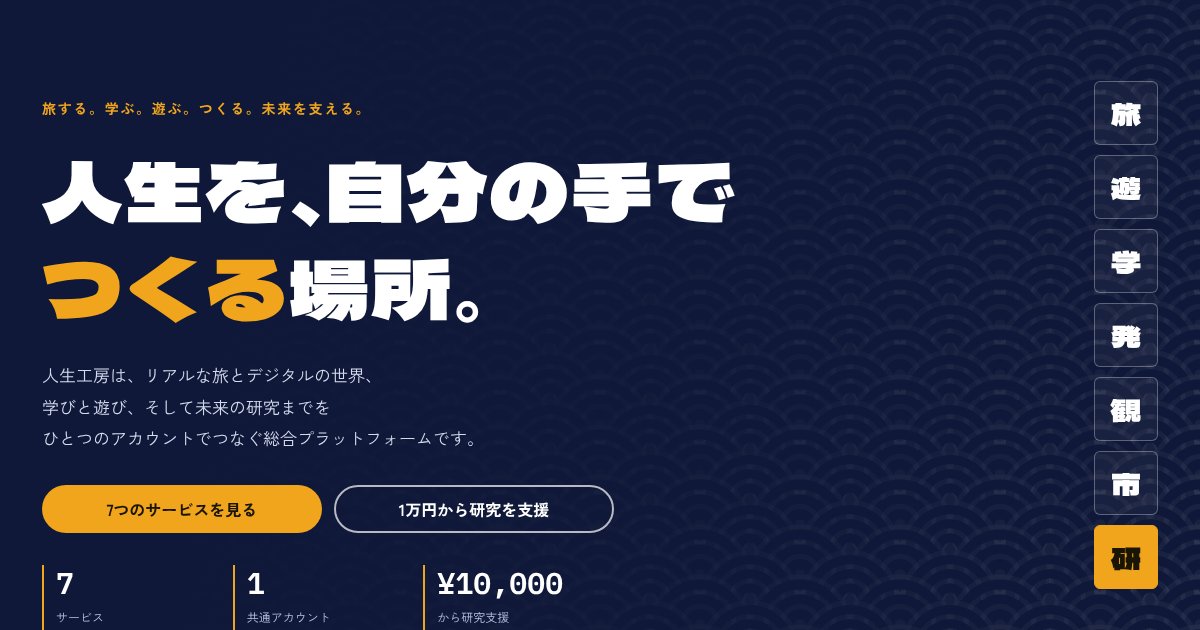
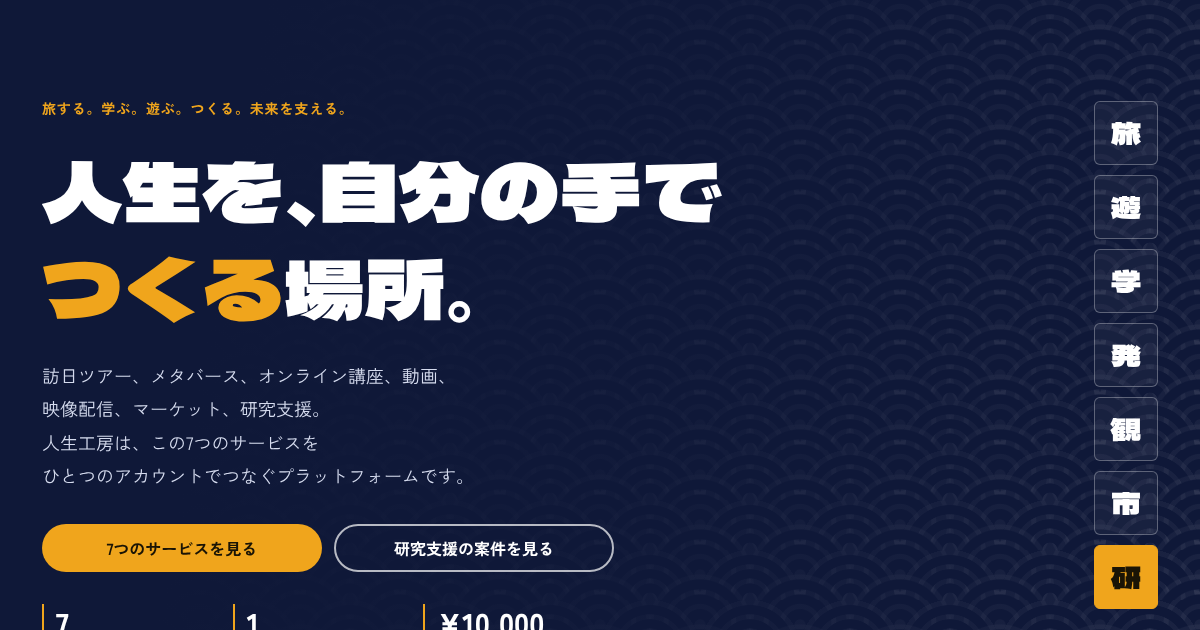
デザインガイドに沿って文字・余白・写真・コピー・CTAを調整
- 日本語は文節で改行し、見出しの不自然な改行を修正
- 見出しを大きくしてジャンプ率を上げ、本文を16pxに
- かなの詰め（palt）を有効化し、日本語の字間を自然に
- 数字を本文書体の極太にして、日本語と高さをそろえる
- セクション見出しを左ぞろえに統一
- カード内の余白を近接の原則で調整
- サムネイルの光の向きと色味を統一
- 抽象的な紹介文を具体的な内容に変更（日英）
- ボタンを押した後の動きが分かる文言に変更（日英）
- 押せる部品を44px以上に拡大

Claude-Session: https://claude.ai/code/session_01LBACWGkgaPbj2pynbsXujo

diff --git a/index.html b/index.html
@@ -50,7 +50,7 @@
           <li><a href="#market"><i aria-hidden="true">市</i>マーケット</a></li>
           <li><a href="#fund"><i aria-hidden="true">研</i>研究支援</a></li>
         </ul>
-        <a class="btn btn--accent btn--sm" href="#join">無料で事前登録</a>
+        <a class="btn btn--accent btn--sm" href="#join">事前登録フォームへ</a>
       </nav>
     </div>
   </header>
@@ -63,11 +63,11 @@
         <p class="hero__eyebrow">旅する。学ぶ。遊ぶ。つくる。<br class="sp">未来を支える。</p>
         <h1 class="hero__title">人生を、<br class="sp">自分の手で<br><em>つくる</em>場所。</h1>
         <p class="hero__lead">
-          人生工房は、リアルな旅とデジタルの世界、<br class="pc">学びと遊び、そして未来の研究までを<br class="pc">ひとつのアカウントでつなぐ総合プラットフォームです。
+          訪日ツアー、メタバース、オンライン講座、動画、<br class="pc">映像配信、マーケット、研究支援。<br class="pc">人生工房は、この7つのサービスを<br class="pc">ひとつのアカウントでつなぐプラットフォームです。
         </p>
         <div class="hero__cta">
           <a class="btn btn--accent" href="#services">7つのサービスを見る</a>
-          <a class="btn btn--ghost" href="#fund">1万円から研究を支援</a>
+          <a class="btn btn--ghost" href="#fund">研究支援の案件を見る</a>
         </div>
         <ul class="hero__kanji" aria-hidden="true"><li>旅</li><li>遊</li><li>学</li><li>発</li><li>観</li><li>市</li><li>研</li></ul>
         <ul class="hero__stats" aria-label="構想中の規模（目標値）">
@@ -90,11 +90,11 @@
         </header>
         <ul class="svc-grid">
           <li><a class="svc" href="#tour" style="--c:var(--c-tour)"><span class="svc__mark" aria-hidden="true">旅</span><h3>インバウンドツアー</h3><p>職人・地域の暮らしに触れる、訪日客向けの体験型ツアー。</p></a></li>
-          <li><a class="svc" href="#metaverse" style="--c:var(--c-meta)"><span class="svc__mark" aria-hidden="true">遊</span><h3>メタバース工房</h3><p>アバターで集い、遊び、つくる。仮想空間のゲームと交流の場。</p></a></li>
-          <li><a class="svc" href="#academy" style="--c:var(--c-academy)"><span class="svc__mark" aria-hidden="true">学</span><h3>アカデミー</h3><p>オンライン講座とライブワークショップで、技と知恵を学ぶ。</p></a></li>
-          <li><a class="svc" href="#channel" style="--c:var(--c-channel)"><span class="svc__mark" aria-hidden="true">発</span><h3>工房チャンネル</h3><p>誰でも動画を投稿・発信できる、クリエイターの動画広場。</p></a></li>
-          <li><a class="svc" href="#theater" style="--c:var(--c-theater)"><span class="svc__mark" aria-hidden="true">観</span><h3>工房シアター</h3><p>オリジナル作品を見放題で楽しめる、定額制の映像配信。</p></a></li>
-          <li><a class="svc" href="#market" style="--c:var(--c-market)"><span class="svc__mark" aria-hidden="true">市</span><h3>工房マーケット</h3><p>個人どうしで売り買いできる、オークション＆フリマ。</p></a></li>
+          <li><a class="svc" href="#metaverse" style="--c:var(--c-meta)"><span class="svc__mark" aria-hidden="true">遊</span><h3>メタバース工房</h3><p>アバターで工房街を歩き、ミニゲームや交流会に参加できる仮想空間。</p></a></li>
+          <li><a class="svc" href="#academy" style="--c:var(--c-academy)"><span class="svc__mark" aria-hidden="true">学</span><h3>アカデミー</h3><p>金継ぎ・木工・日本酒など、職人や研究者から直接学べるオンライン講座。</p></a></li>
+          <li><a class="svc" href="#channel" style="--c:var(--c-channel)"><span class="svc__mark" aria-hidden="true">発</span><h3>工房チャンネル</h3><p>職人の手仕事や研究の解説を、誰でも投稿・発信できる動画サービス。</p></a></li>
+          <li><a class="svc" href="#theater" style="--c:var(--c-theater)"><span class="svc__mark" aria-hidden="true">観</span><h3>工房シアター</h3><p>ドキュメンタリー・ドラマ・アニメのオリジナル作品が見放題の定額配信。</p></a></li>
+          <li><a class="svc" href="#market" style="--c:var(--c-market)"><span class="svc__mark" aria-hidden="true">市</span><h3>工房マーケット</h3><p>作品や古道具を個人どうしで売り買いできる、オークションと即決のマーケット。</p></a></li>
           <li class="svc-grid__wide"><a class="svc svc--feature" href="#fund" style="--c:var(--c-fund)"><span class="svc__mark" aria-hidden="true">研</span><h3>未来研究ファンド</h3><p>ペロブスカイト太陽電池やフュージョンエネルギーなどの研究を、<br class="pc">1口1万円程度から個人が支援できる仕組み。</p></a></li>
         </ul>
       </div>
@@ -105,7 +105,7 @@
       <div class="container">
         <header class="section__head section__head--left">
           <p class="section__en"><span class="badge" aria-hidden="true">旅</span>INBOUND TOUR</p>
-          <h2 class="section__title">日本の「つくる」に会いにいく旅</h2>
+          <h2 class="section__title">日本の「つくる」に<br class="sp">会いにいく旅</h2>
           <p class="section__lead">
             観光地をめぐるだけではなく、職人の工房や地域の暮らしに入り込む、<br class="pc">体験型のツアーを訪日客向けに企画します。英語・中国語などの多言語ガイド付きを想定しています。
           </p>
@@ -125,7 +125,7 @@
       <div class="container">
         <header class="section__head section__head--left">
           <p class="section__en"><span class="badge" aria-hidden="true">遊</span>METAVERSE</p>
-          <h2 class="section__title">メタバース工房で、遊びながらつながる</h2>
+          <h2 class="section__title">メタバース工房で、<br class="sp">遊びながらつながる</h2>
           <p class="section__lead">
             仮想空間の「工房街」をアバターで歩き、ゲームやイベントに参加できます。<br class="pc">下のミニデモでは、矢印キー、または画面をクリック・タップした場所へアバターが歩きます。各エリアに入ってみてください。
           </p>
@@ -180,7 +180,7 @@
       <div class="container">
         <header class="section__head section__head--left">
           <p class="section__en"><span class="badge" aria-hidden="true">発</span>CHANNEL</p>
-          <h2 class="section__title">工房チャンネル ― 誰もが発信者に</h2>
+          <h2 class="section__title">工房チャンネル ―<br class="sp"> 誰もが発信者に</h2>
           <p class="section__lead">
             職人の手仕事、旅の記録、研究者の解説など、だれでも動画を投稿できます。<br class="pc">広告収益やファンからの応援（投げ銭）で、発信者に収益が届く仕組みを想定しています。
           </p>
@@ -200,7 +200,7 @@
       <div class="container">
         <header class="section__head section__head--left">
           <p class="section__en"><span class="badge" aria-hidden="true">観</span>THEATER</p>
-          <h2 class="section__title">工房シアター ― 見放題のオリジナル作品</h2>
+          <h2 class="section__title">工房シアター ―<br class="sp"> 見放題のオリジナル作品</h2>
           <p class="section__lead">
             ドキュメンタリー、ドラマ、アニメなどのオリジナル作品を、<br class="pc">月額定額で見放題にする配信サービスです。
           </p>
@@ -212,7 +212,7 @@
             <p>次世代の太陽電池に人生をかける研究者たちを追った全6話。<br class="pc">研究ファンドの支援先プロジェクトの舞台裏に迫ります。</p>
             <div class="theater__btns">
               <button class="btn btn--light" data-toast="デモのため再生できません">▶ 再生</button>
-              <button class="btn btn--glass" data-toast="マイリストに追加しました（デモ）">＋ マイリスト</button>
+              <button class="btn btn--glass" data-toast="マイリストに追加しました（デモ）">＋ マイリストに追加</button>
             </div>
           </div>
         </div>
@@ -225,7 +225,7 @@
       <div class="container">
         <header class="section__head section__head--left">
           <p class="section__en"><span class="badge" aria-hidden="true">市</span>MARKET</p>
-          <h2 class="section__title">工房マーケット ― 個人どうしで売り買い</h2>
+          <h2 class="section__title">工房マーケット ―<br class="sp"> 個人どうしで売り買い</h2>
           <p class="section__lead">
             作品、古道具、ツアーで出会った品などを、個人が出品できるマーケットです。<br class="pc">「即決購入」と「オークション入札」の2つの買い方を用意します。
           </p>
@@ -285,7 +285,7 @@
             <p class="sim__total">支援額<strong id="simTotal">¥10,000</strong></p>
             <p class="sim__share">目標金額に占める割合 <b id="simShare">0.03%</b></p>
             <p class="sim__share">達成までの残り <b id="simRemain">¥0</b></p>
-            <button class="btn btn--primary btn--block" data-toast="デモのため申込はできません">この内容で支援する（デモ）</button>
+            <button class="btn btn--primary btn--block" data-toast="デモのため申込はできません">申込内容を確認する（デモ）</button>
           </div>
         </div>
 
@@ -365,7 +365,7 @@
         <form class="join__form" id="joinForm" novalidate>
           <label class="visually-hidden" for="joinEmail">メールアドレス</label>
           <input type="email" id="joinEmail" placeholder="メールアドレス" required autocomplete="email">
-          <button class="btn btn--primary" type="submit">事前登録する</button>
+          <button class="btn btn--primary" type="submit">登録してお知らせを受け取る</button>
         </form>
         <p class="join__msg" id="joinMsg" aria-live="polite"></p>
       </div>

diff --git a/assets/js/main.js b/assets/js/main.js
@@ -42,7 +42,7 @@
     demoBook: () => tr("予約はデモのため利用できません", "Booking is not available in this demo"),
     demoEnroll: () => tr("受講申込はデモのため利用できません", "Enrollment is not available in this demo"),
     demoPlay: () => tr("デモのため再生できません", "Playback is not available in this demo"),
-    demoBuy: () => tr("購入はデモのため利用できません", "Purchasing is not available in this demo"),
+    demoBuy: () => tr("カートはデモのため利用できません", "The cart is not available in this demo"),
   };
 
   /* ---------- ナビゲーション（スマホ用メニュー） ---------- */
@@ -93,7 +93,7 @@
             <div class="lang" aria-label="${tr("対応言語", "Guide languages")}">${t.lang.map((l) => `<span>${esc(l)}</span>`).join("")}</div>
             <div class="card__foot">
               <p class="price">${yen(t.price)}<small>${tr("／人〜", " / person")}</small></p>
-              <button class="btn btn--primary btn--sm" data-toast="${T.demoBook()}">${tr("予約する", "Book now")}</button>
+              <button class="btn btn--primary btn--sm" data-toast="${T.demoBook()}">${tr("空き日程を見る", "Check availability")}</button>
             </div>
           </div>
         </article>`; }).join("");
@@ -148,7 +148,7 @@
             <p class="stars" aria-label="${tr("評価", "Rating")} ${c.rate}">★ ${c.rate.toFixed(1)}</p>
             <div class="card__foot">
               <p class="price">${c.price === 0 ? tr("無料", "Free") : yen(c.price)}</p>
-              <button class="btn btn--primary btn--sm" data-toast="${T.demoEnroll()}">${c.type === "live" ? tr("参加する", "Join") : tr("受講する", "Enroll")}</button>
+              <button class="btn btn--primary btn--sm" data-toast="${T.demoEnroll()}">${c.type === "live" ? tr("参加を予約する", "Reserve a seat") : tr("講座の詳細を見る", "View course details")}</button>
             </div>
           </div>
         </article>`; }).join("");
@@ -300,7 +300,7 @@
           <div class="card__foot">
             ${i.kind === "auction"
               ? `<button class="btn btn--primary btn--sm btn--block" data-bid="${i.id}">${tr(`＋${yen(bidStep(i.price))} で入札（デモ）`, `Bid +${yen(bidStep(i.price))} (demo)`)}</button>`
-              : `<button class="btn btn--primary btn--sm btn--block" data-toast="${T.demoBuy()}">${tr("購入する", "Buy now")}</button>`}
+              : `<button class="btn btn--primary btn--sm btn--block" data-toast="${T.demoBuy()}">${tr("カートに入れる", "Add to cart")}</button>`}
           </div>
         </div>
       </article>`; }).join("");
@@ -375,7 +375,7 @@
           </div>
           <p class="card__meta"><span>${tr("集まった金額", "Raised")} ${yen(p.raised)}</span><span>${tr("目標", "Goal")} ${yen(p.goal)}</span></p>
           <p class="fund__risk">${tr("リスク区分", "Risk level")} <b data-r="${riskLabel[p.risk][0]}">${tr(...riskLabel[p.risk])}</b></p>
-          <a class="btn btn--primary btn--sm" href="#simProject" data-pick="${p.id}">${tr(`1口 ${yen(UNIT)} から支援`, `Back from ${yen(UNIT)} per unit`)}</a>
+          <a class="btn btn--primary btn--sm" href="#simProject" data-pick="${p.id}">${tr("この案件で支援額を試算する", "Estimate my backing")}</a>
         </div>
       </article>`;
     }).join("");
@@ -575,13 +575,13 @@
     ['#nav a[href="#theater"]', '<i aria-hidden="true">観</i>Theater'],
     ['#nav a[href="#market"]', '<i aria-hidden="true">市</i>Market'],
     ['#nav a[href="#fund"]', '<i aria-hidden="true">研</i>Research'],
-    ["#nav .btn", "Sign up free"],
+    ["#nav .btn", "Go to sign-up"],
 
     [".hero__eyebrow", "Travel. Learn. Play. Make.<br class=\"sp\"> Back the future."],
     [".hero__title", "A place to <em>craft</em><br>your own life."],
-    [".hero__lead", "Jinsei Koubo means “Life Workshop.” We connect real-world travel and digital spaces, learning and play, and even frontier research, all through a single account."],
+    [".hero__lead", "Tours of Japan, a metaverse, online courses, videos, streaming, a marketplace and research funding. Jinsei Koubo, or “Life Workshop,” connects these seven services through one account."],
     ['.hero__cta a[href="#services"]', "Explore 7 services"],
-    ['.hero__cta a[href="#fund"]', "Back research from ¥10,000"],
+    ['.hero__cta a[href="#fund"]', "See research projects"],
     [".hero__stats", "Planned scale (targets)", "aria-label"],
     [".hero__stats li:nth-child(1) span", "Services"],
     [".hero__stats li:nth-child(2) span", "Shared account"],
@@ -592,15 +592,15 @@
     ['.svc[href="#tour"] h3', "Inbound Tours"],
     ['.svc[href="#tour"] p', "Hands-on tours for visitors to Japan, inside artisan workshops and local life."],
     ['.svc[href="#metaverse"] h3', "Metaverse Workshop"],
-    ['.svc[href="#metaverse"] p', "Gather, play and create as an avatar in a shared virtual world."],
+    ['.svc[href="#metaverse"] p', "A virtual workshop town where your avatar joins mini-games and meetups."],
     ['.svc[href="#academy"] h3', "Academy"],
-    ['.svc[href="#academy"] p', "Learn skills and know-how through online courses and live workshops."],
+    ['.svc[href="#academy"] p', "Online courses in kintsugi, woodworking, sake and more, taught directly by artisans and researchers."],
     ['.svc[href="#channel"] h3', "Koubo Channel"],
-    ['.svc[href="#channel"] p', "A video space where anyone can post and share their work."],
+    ['.svc[href="#channel"] p', "A video service where anyone can post artisan craft, research explainers and more."],
     ['.svc[href="#theater"] h3', "Koubo Theater"],
-    ['.svc[href="#theater"] p', "A subscription service for unlimited original films and series."],
+    ['.svc[href="#theater"] p', "Original documentaries, dramas and anime, unlimited for one monthly fee."],
     ['.svc[href="#market"] h3', "Koubo Market"],
-    ['.svc[href="#market"] p', "Buy and sell person to person, by auction or fixed price."],
+    ['.svc[href="#market"] p', "Buy and sell crafts and vintage finds person to person, by auction or Buy It Now."],
     ['.svc[href="#fund"] h3', "Future Research Fund"],
     ['.svc[href="#fund"] p', "Back research such as perovskite solar cells and fusion energy,<br class=\"pc\"> starting from around ¥10,000 per unit."],
 
@@ -647,7 +647,7 @@
     [".theater__hero p:not(.theater__tag)", "A six-part series following researchers who have devoted their lives to next-generation solar cells, and the projects backed by our research fund."],
     [".theater__btns .btn--light", "▶ Play"],
     [".theater__btns .btn--light", "Playback is not available in this demo", "data-toast"],
-    [".theater__btns .btn--glass", "+ My List"],
+    [".theater__btns .btn--glass", "+ Add to My List"],
     [".theater__btns .btn--glass", "Added to My List (demo)", "data-toast"],
 
     ["#market .section__title", "Koubo Market: buy and sell person to person"],
@@ -676,7 +676,7 @@
     [".sim__total", 'Your total<strong id="simTotal">¥10,000</strong>'],
     [".sim__share:nth-of-type(2)", 'Share of the goal <b id="simShare">0.03%</b>'],
     [".sim__share:nth-of-type(3)", 'Remaining to reach the goal <b id="simRemain">¥0</b>'],
-    [".sim__out .btn", "Back this project (demo)"],
+    [".sim__out .btn", "Review my backing (demo)"],
     [".sim__out .btn", "Backing is not available in this demo", "data-toast"],
     [".risk h3", "Please note (concept stage)"],
     [".risk li:nth-child(1)", "Research and development is never guaranteed to succeed. You may not get your money back."],
@@ -715,7 +715,7 @@
     [".join__inner > p:not(.join__msg)", "Get launch news and early-access invitations."],
     ['label[for="joinEmail"]', "Email address"],
     ["#joinEmail", "Email address", "placeholder"],
-    [".join__form .btn", "Sign up"],
+    [".join__form .btn", "Sign up for launch news"],
 
     [".footer__copy", "Travel. Learn. Play. Make. Back the future."],
     ['.footer__links a[href="#services"]', "All services"],

diff --git a/assets/css/style.css b/assets/css/style.css
@@ -561,3 +561,71 @@ button { cursor: pointer; }
 :root[lang="en"] .hero__title { letter-spacing: 0; }
 :root[lang="en"] .section__title { letter-spacing: 0; }
 :root[lang="en"] .hero__title { font-size: clamp(34px, 7.6vw, 76px); }
+
+/* =========================================================
+   デザイン調整（「AIっぽさをなくす10選」などの基準による見直し）
+   ========================================================= */
+
+/* 01 改行：日本語は文節（意味の区切り）で改行する */
+body { overflow-wrap: break-word; }
+:root[lang="ja"] body { word-break: auto-phrase; }
+
+/* 05 字間：見出しはかなを自然に詰め、日本語の字間を空けすぎない */
+h1, h2, h3, .btn, .hero__eyebrow, .svc h3, .card__title, .fund__title, .row__title, .join__title {
+  font-feature-settings: "palt";
+}
+.hero__title { letter-spacing: .01em; }
+.section__title { letter-spacing: .01em; }
+:root[lang="ja"] .hero__eyebrow { letter-spacing: .06em; }
+
+/* 02 ジャンプ率：見出しを大きく、本文は読みやすい16pxに */
+.section__title { font-size: clamp(26px, 4.8vw, 46px); line-height: 1.35; }
+.section__lead { font-size: 16px; margin-top: 14px; }
+.svc h3 { font-size: 19px; }
+.card__title { font-size: 18px; }
+.hero__lead { font-size: clamp(16px, 2vw, 18px); }
+
+/* 整列：セクション見出しはすべて左ぞろえ */
+.section__head, .section__head:not(.section__head--left) { text-align: left; }
+.section__head:not(.section__head--left) .section__en { justify-content: flex-start; }
+.section__head:not(.section__head--left) .section__lead { margin-left: 0; margin-right: 0; }
+.section__head { margin-bottom: 36px; }
+
+/* 04 英数字：数字は本文書体の極太で、日本語と高さをそろえる */
+.price, .hero__stats strong, .fund__nums strong, .sim__total strong, .sim__share b, .watch-count b, .meta__visited b {
+  font-family: var(--font); font-weight: 900; font-variant-numeric: tabular-nums; letter-spacing: 0;
+}
+.price { font-size: 22px; }
+.sim__total strong { font-size: 36px; }
+
+/* 03 余白（近接）：関連する要素は近く、ボタンとの間は広く */
+.card__body { gap: 6px; padding: 18px 18px 20px; }
+.card__body > .card__meta + .stars { margin-top: -2px; }
+.card__foot { padding-top: 16px; }
+.fund__body { gap: 10px; }
+.fund__body .btn { margin-top: auto; }
+.fund__nums { margin-block: 4px; }
+
+/* 06・07 写真の光と質感：全サムネイルを「左上から光、下に影」でそろえる */
+.card__thumb, .video__thumb, .poster, .fund__head { position: relative; isolation: isolate; }
+.card__thumb::after, .video__thumb::after, .poster::after {
+  content: ""; position: absolute; inset: 0; z-index: 0; pointer-events: none;
+  background:
+    radial-gradient(130% 100% at 15% 0%, rgba(255, 244, 225, .30), transparent 55%),
+    linear-gradient(180deg, transparent 55%, rgba(10, 14, 30, .22));
+  mix-blend-mode: soft-light;
+}
+.card__thumb > *, .video__thumb > *, .poster > * { position: relative; z-index: 1; }
+.card__thumb > .card__label, .card__thumb > .watch, .video__thumb > .video__time,
+.poster > .poster__rank, .poster > .poster__new, .poster > .poster__title, .poster > .poster__emoji { position: absolute; }
+.card__thumb > span[aria-hidden], .video__thumb > span[aria-hidden], .poster__emoji {
+  filter: drop-shadow(0 10px 12px rgba(10, 14, 30, .28)) saturate(.92);
+}
+.card__thumb, .video__thumb, .poster { filter: saturate(.9); }
+
+/* タッチターゲット：押せる部品は44px以上 */
+.chip, .tab, .btn--sm, .lang-toggle, .select select { min-height: 44px; }
+.watch { width: 44px; height: 44px; }
+
+/* 10 CTA：主ボタンは押した後の動きが分かる文言に。幅に収まるよう折り返しを許可 */
+.btn { white-space: normal; text-align: center; line-height: 1.4; padding-block: 8px; }
